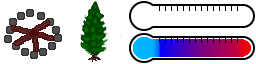
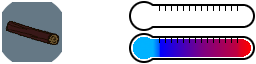
Chopping trees

Changed region(s): [[0.0, 0.0312, 0.25, 0.9688], [0.3125, 0.0, 0.4375, 0.9688]]

diff --git a/src/lib.rs b/src/lib.rs
@@ -93,6 +93,48 @@ impl Rend for Thermometer {
     }
 }
 
+struct Inventory {
+    size: na::Vector2<f32>,
+    texture_pos: (f32, f32),
+    texture_size: (f32, f32),
+    texture_map: TextureMap,
+    amount: u8,
+}
+
+impl Inventory {
+    pub fn new(
+        texture_pos: (f32, f32),
+        texture_size: (f32, f32),
+        texture_map: TextureMap,
+    ) -> Inventory {
+        Inventory {
+            size: na::Vector2::new(40.0, 40.0),
+            texture_pos,
+            texture_size,
+            texture_map,
+            amount: 0,
+        }
+    }
+}
+
+impl Rend for Inventory {
+    fn render(&self, renderer: &mut Renderer, game_object: &GameObject) {
+        let mut size = self.size.clone_owned();
+        size.y *= self.amount as f32;
+        renderer.draw_quad_with_depth(
+            game_object.pos,
+            size,
+            &self.texture_map.get_texture_custom(
+                self.texture_pos.0,
+                self.texture_pos.1,
+                self.texture_size.0,
+                self.texture_size.1 * self.amount as f32,
+            ),
+            -0.11,
+        );
+    }
+}
+
 struct Grass {
     texture_map: TextureMap,
 }
@@ -112,8 +154,8 @@ impl Rend for Grass {
             pos,
             size,
             &self.texture_map.get_very_custom(
-                na::Vector2::new(cam.x / 2048.0, -cam.y / 2048.0),
-                vp / 2048.0,
+                na::Vector2::new(cam.x / 1024.0, -cam.y / 1024.0),
+                vp / 1024.0,
             ),
             -pos.y - vp.y,
         );
@@ -146,7 +188,7 @@ const WORLD_EDGE: f64 = 10000.0;
 
 impl SomeWorld {
     fn new() -> SomeWorld {
-        let spritesheet = engine::renderer::TextureMap::new(4, 2, "spritesheet".to_string());
+        let spritesheet = TextureMap::new(4, 4, "spritesheet".to_string());
 
         let mut player = GameObject::new(na::Point2::new(350.0, 250.0));
         player.add_rend(Box::new(TexturedBox {
@@ -170,6 +212,13 @@ impl SomeWorld {
             engine::renderer::TextureMap::new(4, 1, "ui".to_string()),
         )));
 
+        let mut inventory = GameObject::new(na::Point2::new(-50.0, 0.0));
+        inventory.add_rend(Box::new(Inventory::new(
+            (0.0, 0.0),
+            (1.0, 1.0),
+            engine::renderer::TextureMap::new(4, 1, "ui".to_string()),
+        )));
+
         let mut grass = GameObject::new(na::Point2::new(0.0, 0.0));
         grass.add_rend(Box::new(Grass::new(engine::renderer::TextureMap::new(
             1,
@@ -181,6 +230,7 @@ impl SomeWorld {
         game_objects.insert("player".to_string(), player);
         game_objects.insert("fire".to_string(), fire);
         game_objects.insert("thermometer".to_string(), thermometer);
+        game_objects.insert("inventory".to_string(), inventory);
         game_objects.insert("grass".to_string(), grass);
 
         // let perlin = Perlin::new().set_seed(2);
@@ -210,6 +260,7 @@ impl SomeWorld {
                 size: na::Vector2::new(128.0, 128.0),
                 texture: spritesheet.get_texture(1, 0),
             }));
+            tree.props.insert("tree".to_string(), tree_i as f32);
             game_objects.insert(format!("tree{}", tree_i), tree);
             tree_i += 1;
         }
@@ -245,7 +296,6 @@ impl engine::World for SomeWorld {
         let direction = SomeWorld::get_direction(key_manager);
 
         let player = self.game_objects.get("player").unwrap();
-        let fire = self.game_objects.get("fire").unwrap();
 
         let mut speed = player.speed.clone();
         speed += direction * ((timestamp - self.last_tick) as f32 * 0.1);
@@ -259,13 +309,70 @@ impl engine::World for SomeWorld {
             speed *= 0.0;
         }
 
-        for game_object in self.game_objects.values() {
-            let collider = game_object.get_collider();
-            match collider {
-                Some(collider) => collider.collide(&game_object, &player.pos, &mut speed),
-                None => (),
+        let player_pos = player.pos.clone();
+        let mut stumps = HashMap::new();
+        let mut inventory = self.game_objects.get_mut("inventory").unwrap().rend[0]
+            .downcast_mut::<Inventory>()
+            .unwrap()
+            .amount;
+        self.game_objects.retain(|key, game_object| {
+            if let Some(collider) = game_object.get_collider() {
+                if collider.collide(&game_object, &player_pos, &mut speed) {
+                    if key_manager.key_up(key_codes::E) && game_object.props.contains_key("tree") {
+                        // Chopping trees creates a stump and a log
+                        let mut stump = GameObject::new(game_object.pos.clone());
+                        stump.add_collider(Collider::new(5.0));
+                        stump.add_rend(Box::new(TexturedBox {
+                            size: na::Vector2::new(128.0, 128.0),
+                            texture: TextureMap::new(4, 4, "spritesheet".to_string())
+                                .get_texture(3, 0),
+                        }));
+                        stump
+                            .props
+                            .insert("stump".to_string(), *game_object.props.get("tree").unwrap());
+                        stumps.insert(format!("stump{}", key), stump);
+                        let mut log = GameObject::new(&game_object.pos + Vector2::new(32.0, 32.0));
+                        log.add_collider(Collider::new(10.0));
+                        log.add_rend(Box::new(TexturedBox {
+                            size: na::Vector2::new(64.0, 64.0),
+                            texture: TextureMap::new(4, 4, "spritesheet".to_string())
+                                .get_texture(0, 2),
+                        }));
+                        log.props
+                            .insert("log".to_string(), *game_object.props.get("tree").unwrap());
+                        stumps.insert(format!("log{}", key), log);
+                        return false;
+                    } else if key_manager.key_up(key_codes::SPACE)
+                        && game_object.props.contains_key("log")
+                        && inventory < 3
+                    {
+                        // Picking up a log
+                        inventory += 1;
+                        return false;
+                    }
+                }
             }
+            true
+        });
+        self.game_objects.extend(stumps);
+        // Dropping off logs:
+        let fire = self.game_objects.get("fire").unwrap();
+        if fire
+            .get_collider()
+            .as_ref()
+            .unwrap()
+            .collide(&fire, &player_pos, &mut speed)
+            && key_manager.key_up(key_codes::SPACE)
+        {
+            inventory -= 1;
         }
+        self.game_objects.get_mut("inventory").unwrap().rend[0]
+            .downcast_mut::<Inventory>()
+            .unwrap()
+            .amount = inventory;
+
+        let player = self.game_objects.get("player").unwrap();
+        let fire = self.game_objects.get("fire").unwrap();
         let conductivity = (timestamp - self.last_tick) as f32 / 8000.0;
         let c = 300.0; // smaller number == sharper drop-off
         let r2 = ((f32::max(0.0, (player.pos - fire.pos).norm() - 48.0) + c) / c).powi(2);

diff --git a/engine/src/lib.rs b/engine/src/lib.rs
@@ -6,6 +6,7 @@ extern crate num_derive;
 extern crate wee_alloc;
 
 use std::cell::RefCell;
+use std::collections::HashMap;
 use std::rc::Rc;
 
 use downcast_rs::Downcast;
@@ -32,6 +33,7 @@ pub struct GameObject {
     pub speed: na::Vector2<f32>,
     collider: Option<Collider>,
     pub rend: Vec<Box<dyn Rend>>,
+    pub props: HashMap<String, f32>,
 }
 impl GameObject {
     pub fn new(pos: na::Point2<f32>) -> GameObject {
@@ -40,6 +42,7 @@ impl GameObject {
             speed: na::Vector2::zeros(),
             collider: None,
             rend: vec![],
+            props: HashMap::new(),
         }
     }
 
@@ -79,11 +82,11 @@ impl Collider {
         game_object: &GameObject,
         pos: &na::Point2<f32>,
         speed: &mut na::Vector2<f32>,
-    ) {
+    ) -> bool {
         if f32::abs(game_object.pos.x - pos.x) > (self.get_range() + 16.0)
             || f32::abs(game_object.pos.y - pos.y) > (self.get_range() + 16.0)
         {
-            return;
+            return false;
         }
         if na::distance_squared(&game_object.pos, pos) < (self.get_range() + 16.0).powi(2) {
             if pos.x > game_object.pos.x {
@@ -96,6 +99,9 @@ impl Collider {
             } else {
                 speed.y = f32::min(0.0, speed.y);
             }
+            return true;
+        } else {
+            return false;
         };
     }
 }

diff --git a/engine/src/key/key_codes.rs b/engine/src/key/key_codes.rs
@@ -2,6 +2,7 @@
 //! keycodes. All KeyCodes reported from Javascript are tracked in KeyManager
 //! so you can look up KeyCodes not listed here and define your own constants if necessary.
 pub const BACKSPACE: usize = 8;
+pub const SPACE: usize = 32;
 pub const TAB: usize = 9;
 pub const ENTER: usize = 13;
 pub const SHIFT: usize = 16;
